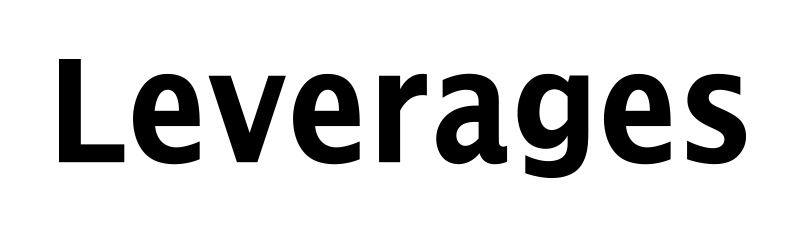
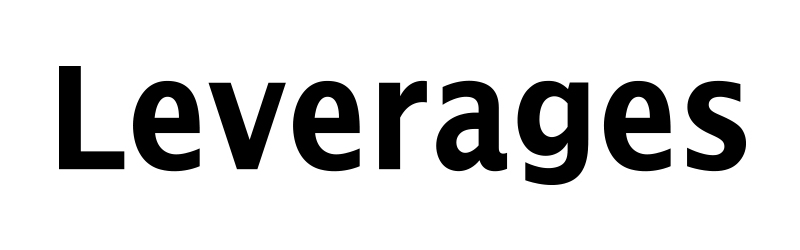
スポンサー画像を更新

diff --git a/src/browser/graphics/img/sponsor/static/index.ts b/src/browser/graphics/img/sponsor/static/index.ts
@@ -1,9 +1,19 @@
-import earthbrain from "./earthbrain_horizontal.png";
-import googlecloud from "./googlecloudjapan.png";
-import layerx from "./layerx_horizontal.png";
-import medley from "./medley.png";
-import timee from "./timee_horizontal.png";
-import toggle from "./toggle.png";
-import ubie from "./ubie_horizontal.png";
+import bitkey from "./bitkey_horizontal.jpg";
+import earthbrain from "./earthbrain_horizontal.jpg";
+import googlecloudjapan from "./googlecloudjapan.jpg";
+import layerx from "./layerx_horizontal.jpg";
+import medley from "./medley.jpg";
+import timee from "./timee_horizontal.jpg";
+import toggle from "./toggle.jpg";
+import ubie from "./ubie_horizontal.jpg";
 
-export { earthbrain, googlecloud, layerx, medley, timee, toggle, ubie };
+export {
+  bitkey,
+  earthbrain,
+  googlecloudjapan,
+  layerx,
+  medley,
+  timee,
+  toggle,
+  ubie,
+};

diff --git a/src/browser/graphics/img/sponsor/roll/index.ts b/src/browser/graphics/img/sponsor/roll/index.ts
@@ -1,7 +1,7 @@
-import ascend from "./ascend.png";
-import dwango from "./dwango_horizontal.png";
-import helpfeel from "./helpfeel_horizontal.png";
+import ascend from "./ascend.jpg";
+import dwango from "./dwango_horizontal.jpg";
+import helpfeel from "./helpfeel_horizontal.jpg";
 import leverages from "./leverages.jpg";
-import progate from "./progate_horizontal.png";
+import progate from "./progate_horizontal.jpg";
 
 export { ascend, dwango, helpfeel, leverages, progate };
